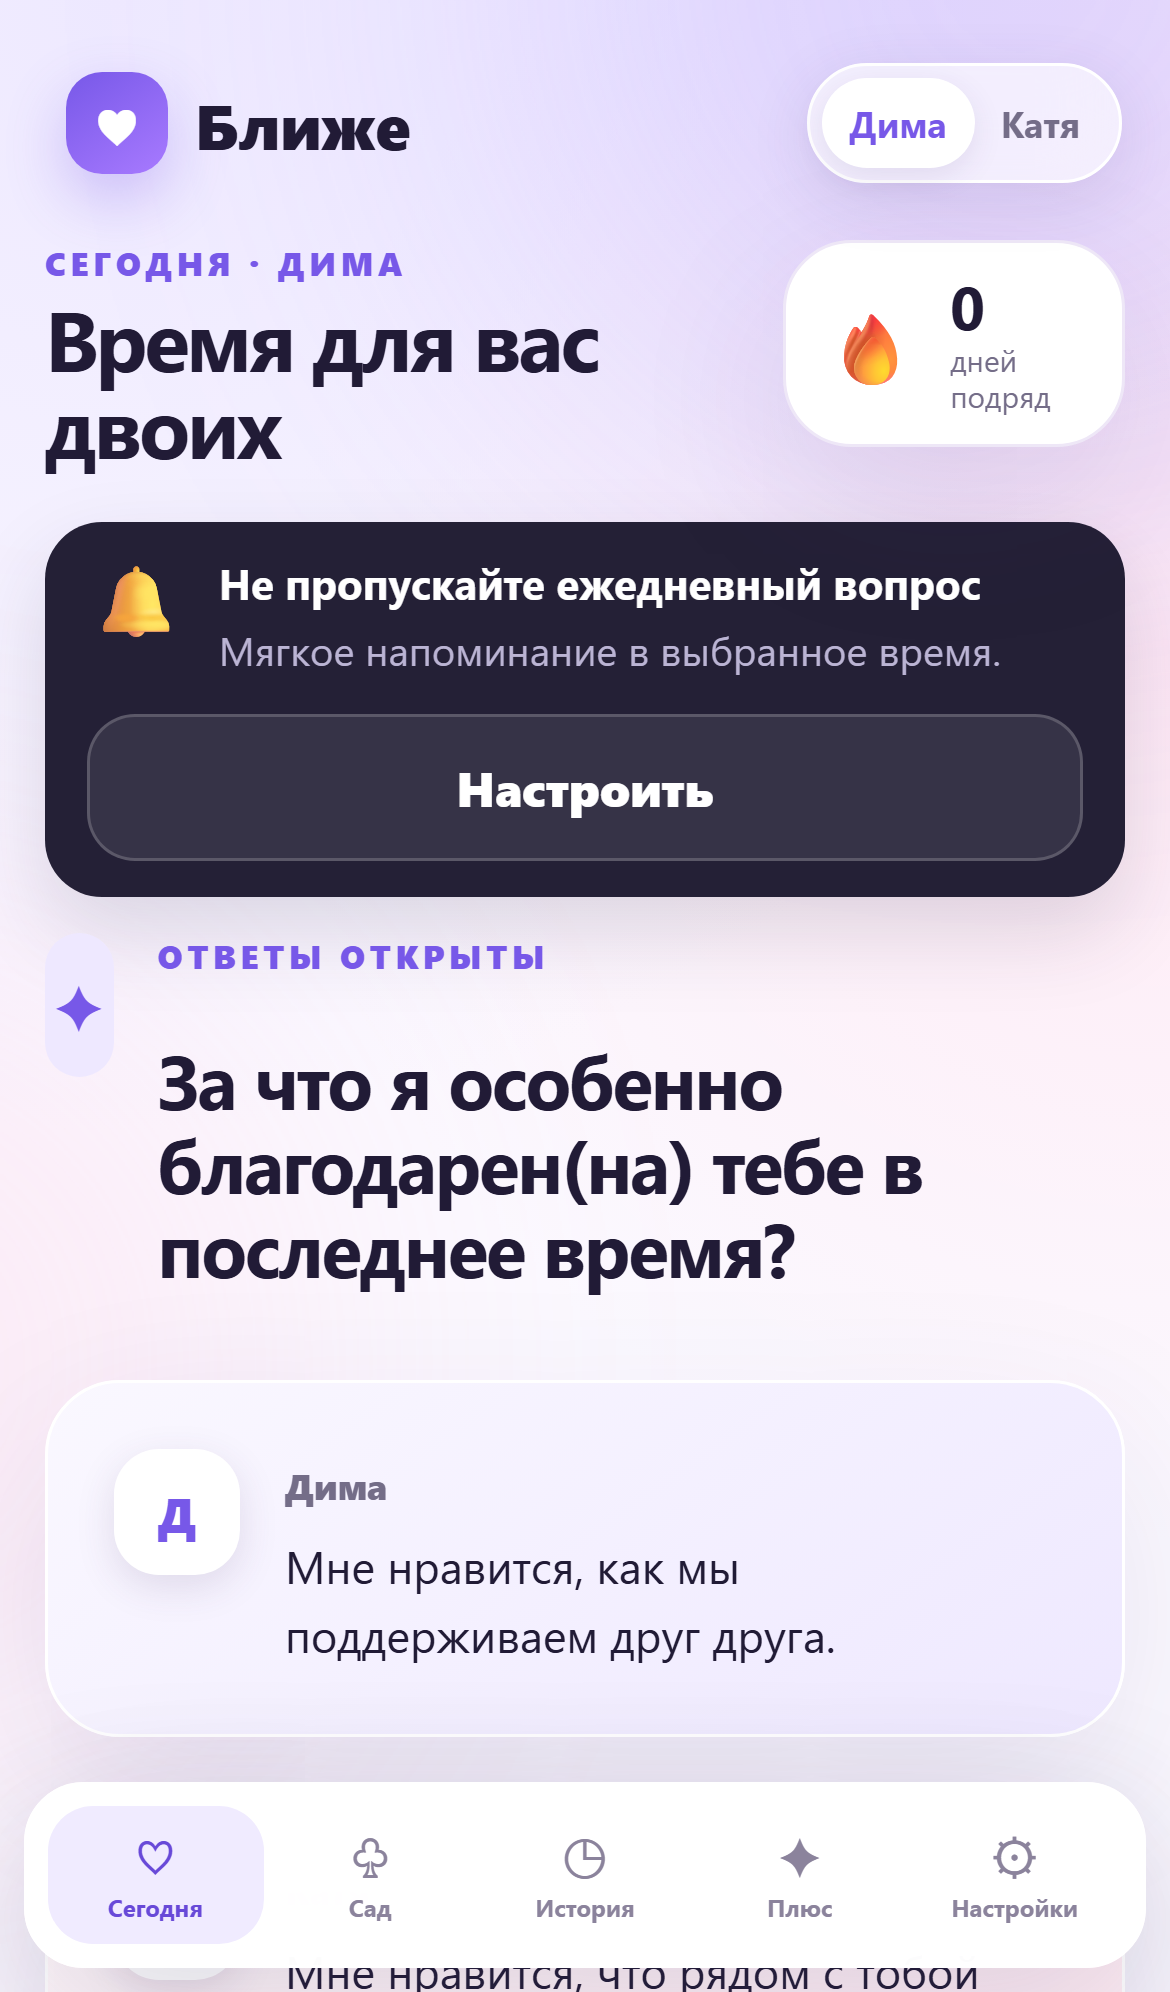
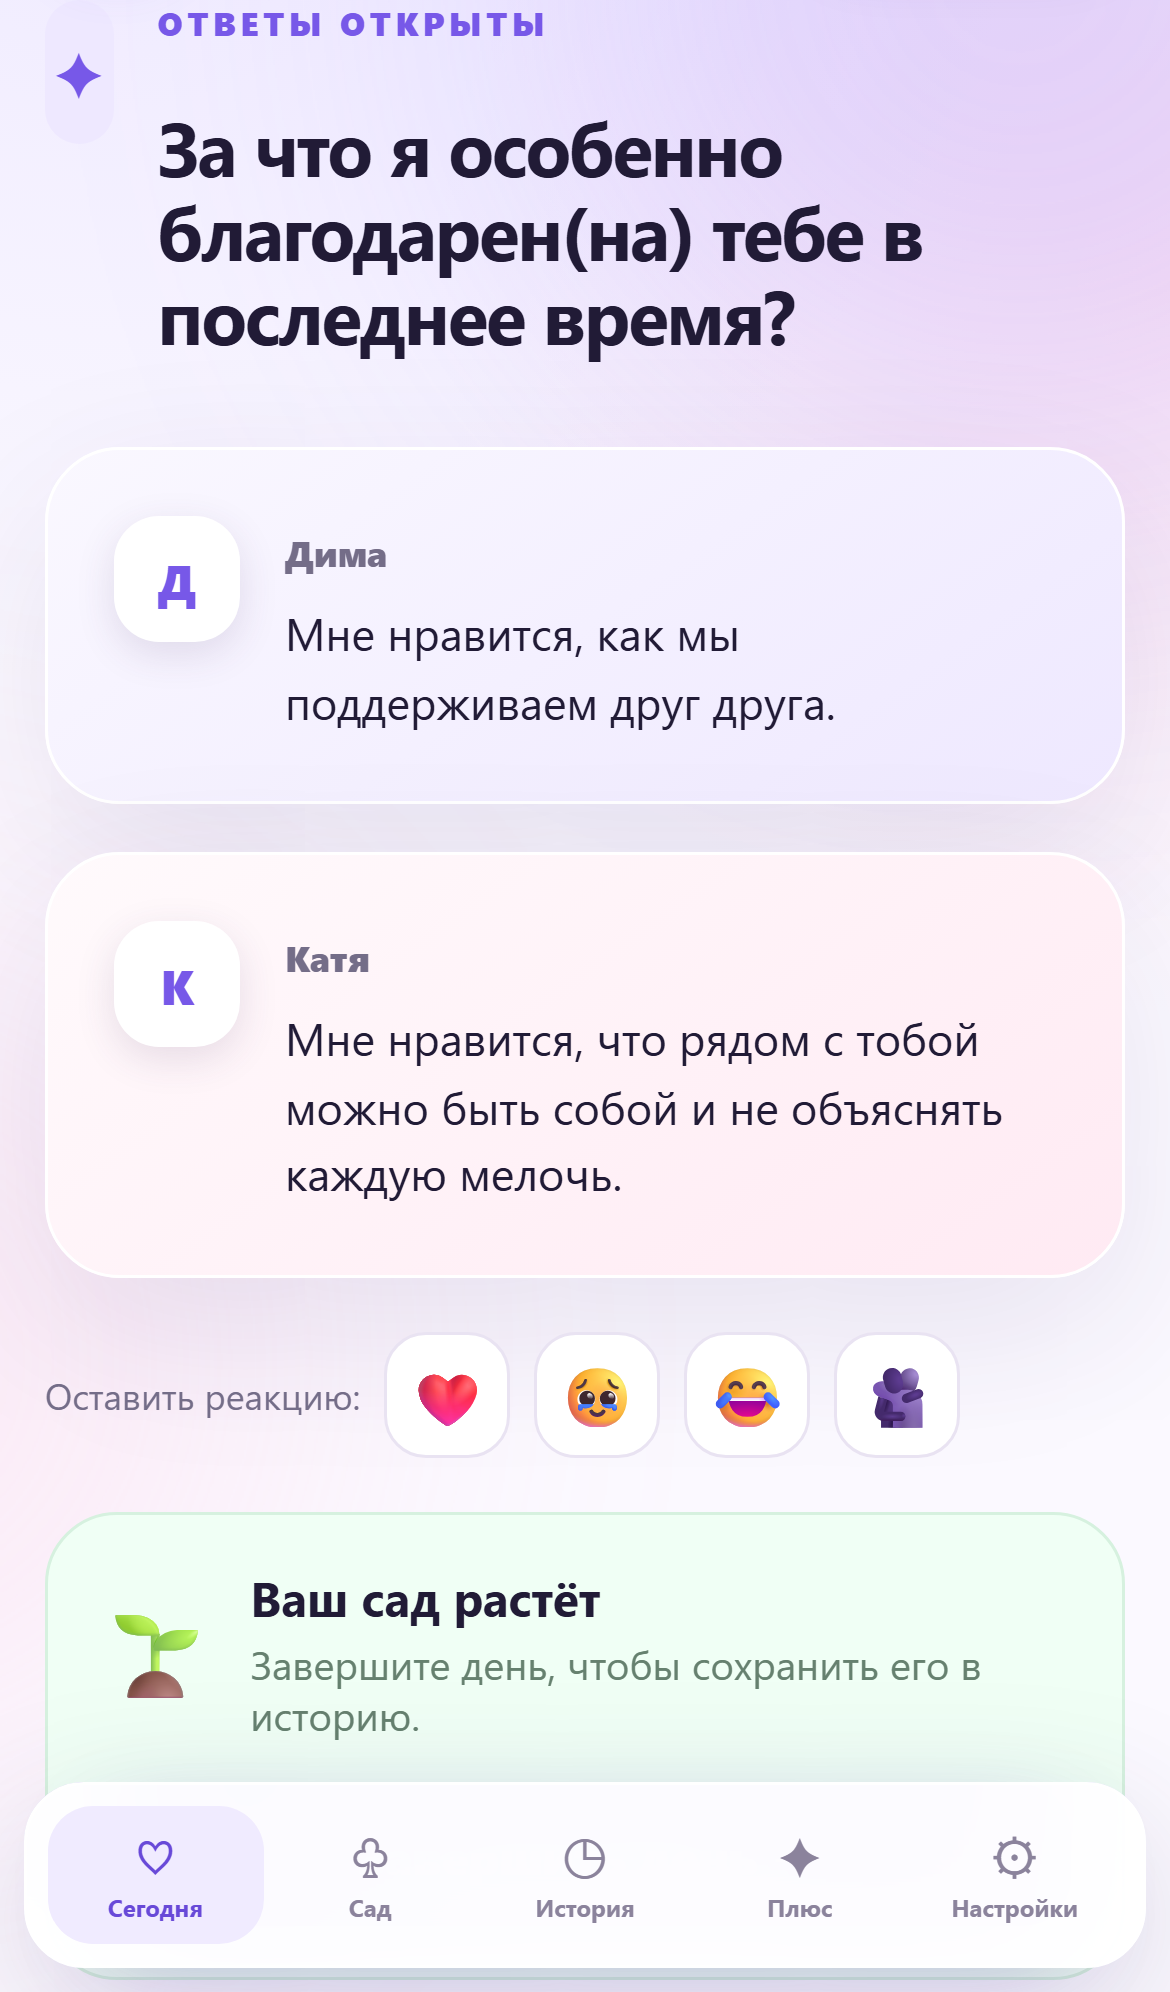
Refresh README screenshots with clean reveal and garden frames.
Capture script now frames both answers, applies a reaction, then shoots the garden without toasts or system dialogs.

diff --git a/README.md b/README.md
@@ -16,7 +16,8 @@ Local-first ежедневный ритуал для пары. Этот репо
 
 ## Скриншоты (мобильное разрешение)
 
-Снято в viewport iPhone 14 (~390×844).
+Чистые кадры без системных диалогов (viewport iPhone 14 ~390×844).  
+Reveal → реакция ❤ → сад.
 
 | Онбординг | Сегодня | Ожидание | Ответы |
 |:---:|:---:|:---:|:---:|
